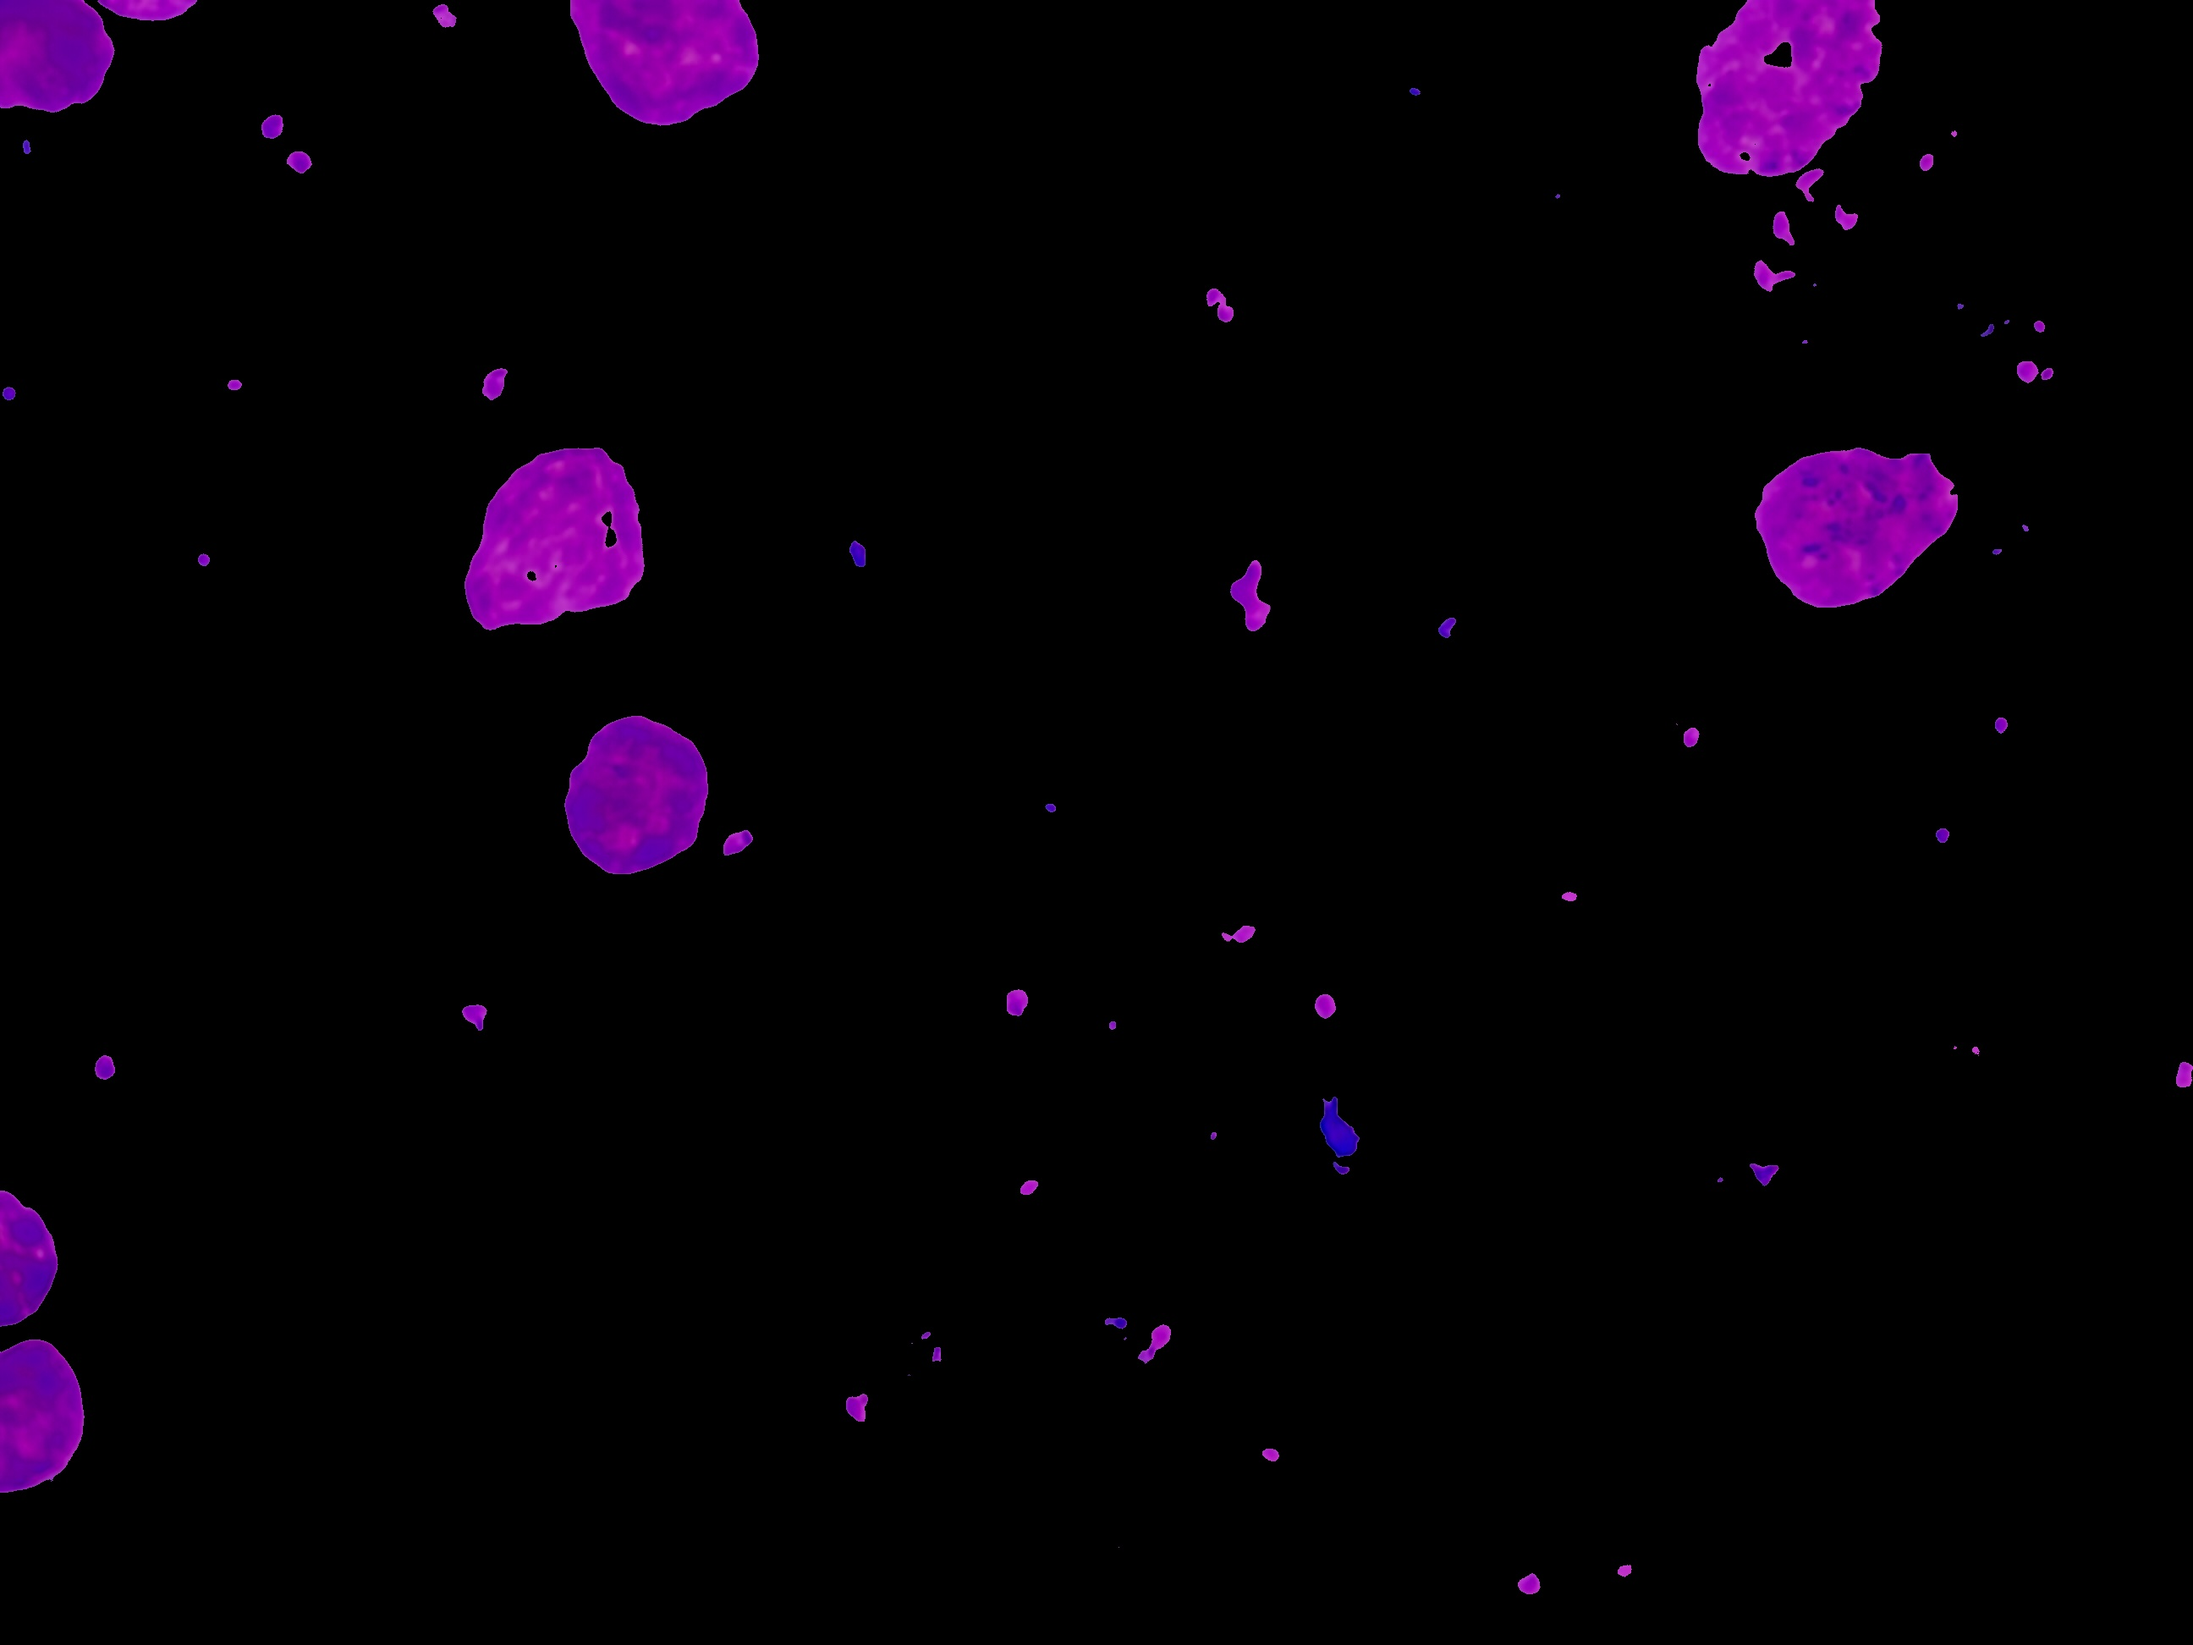
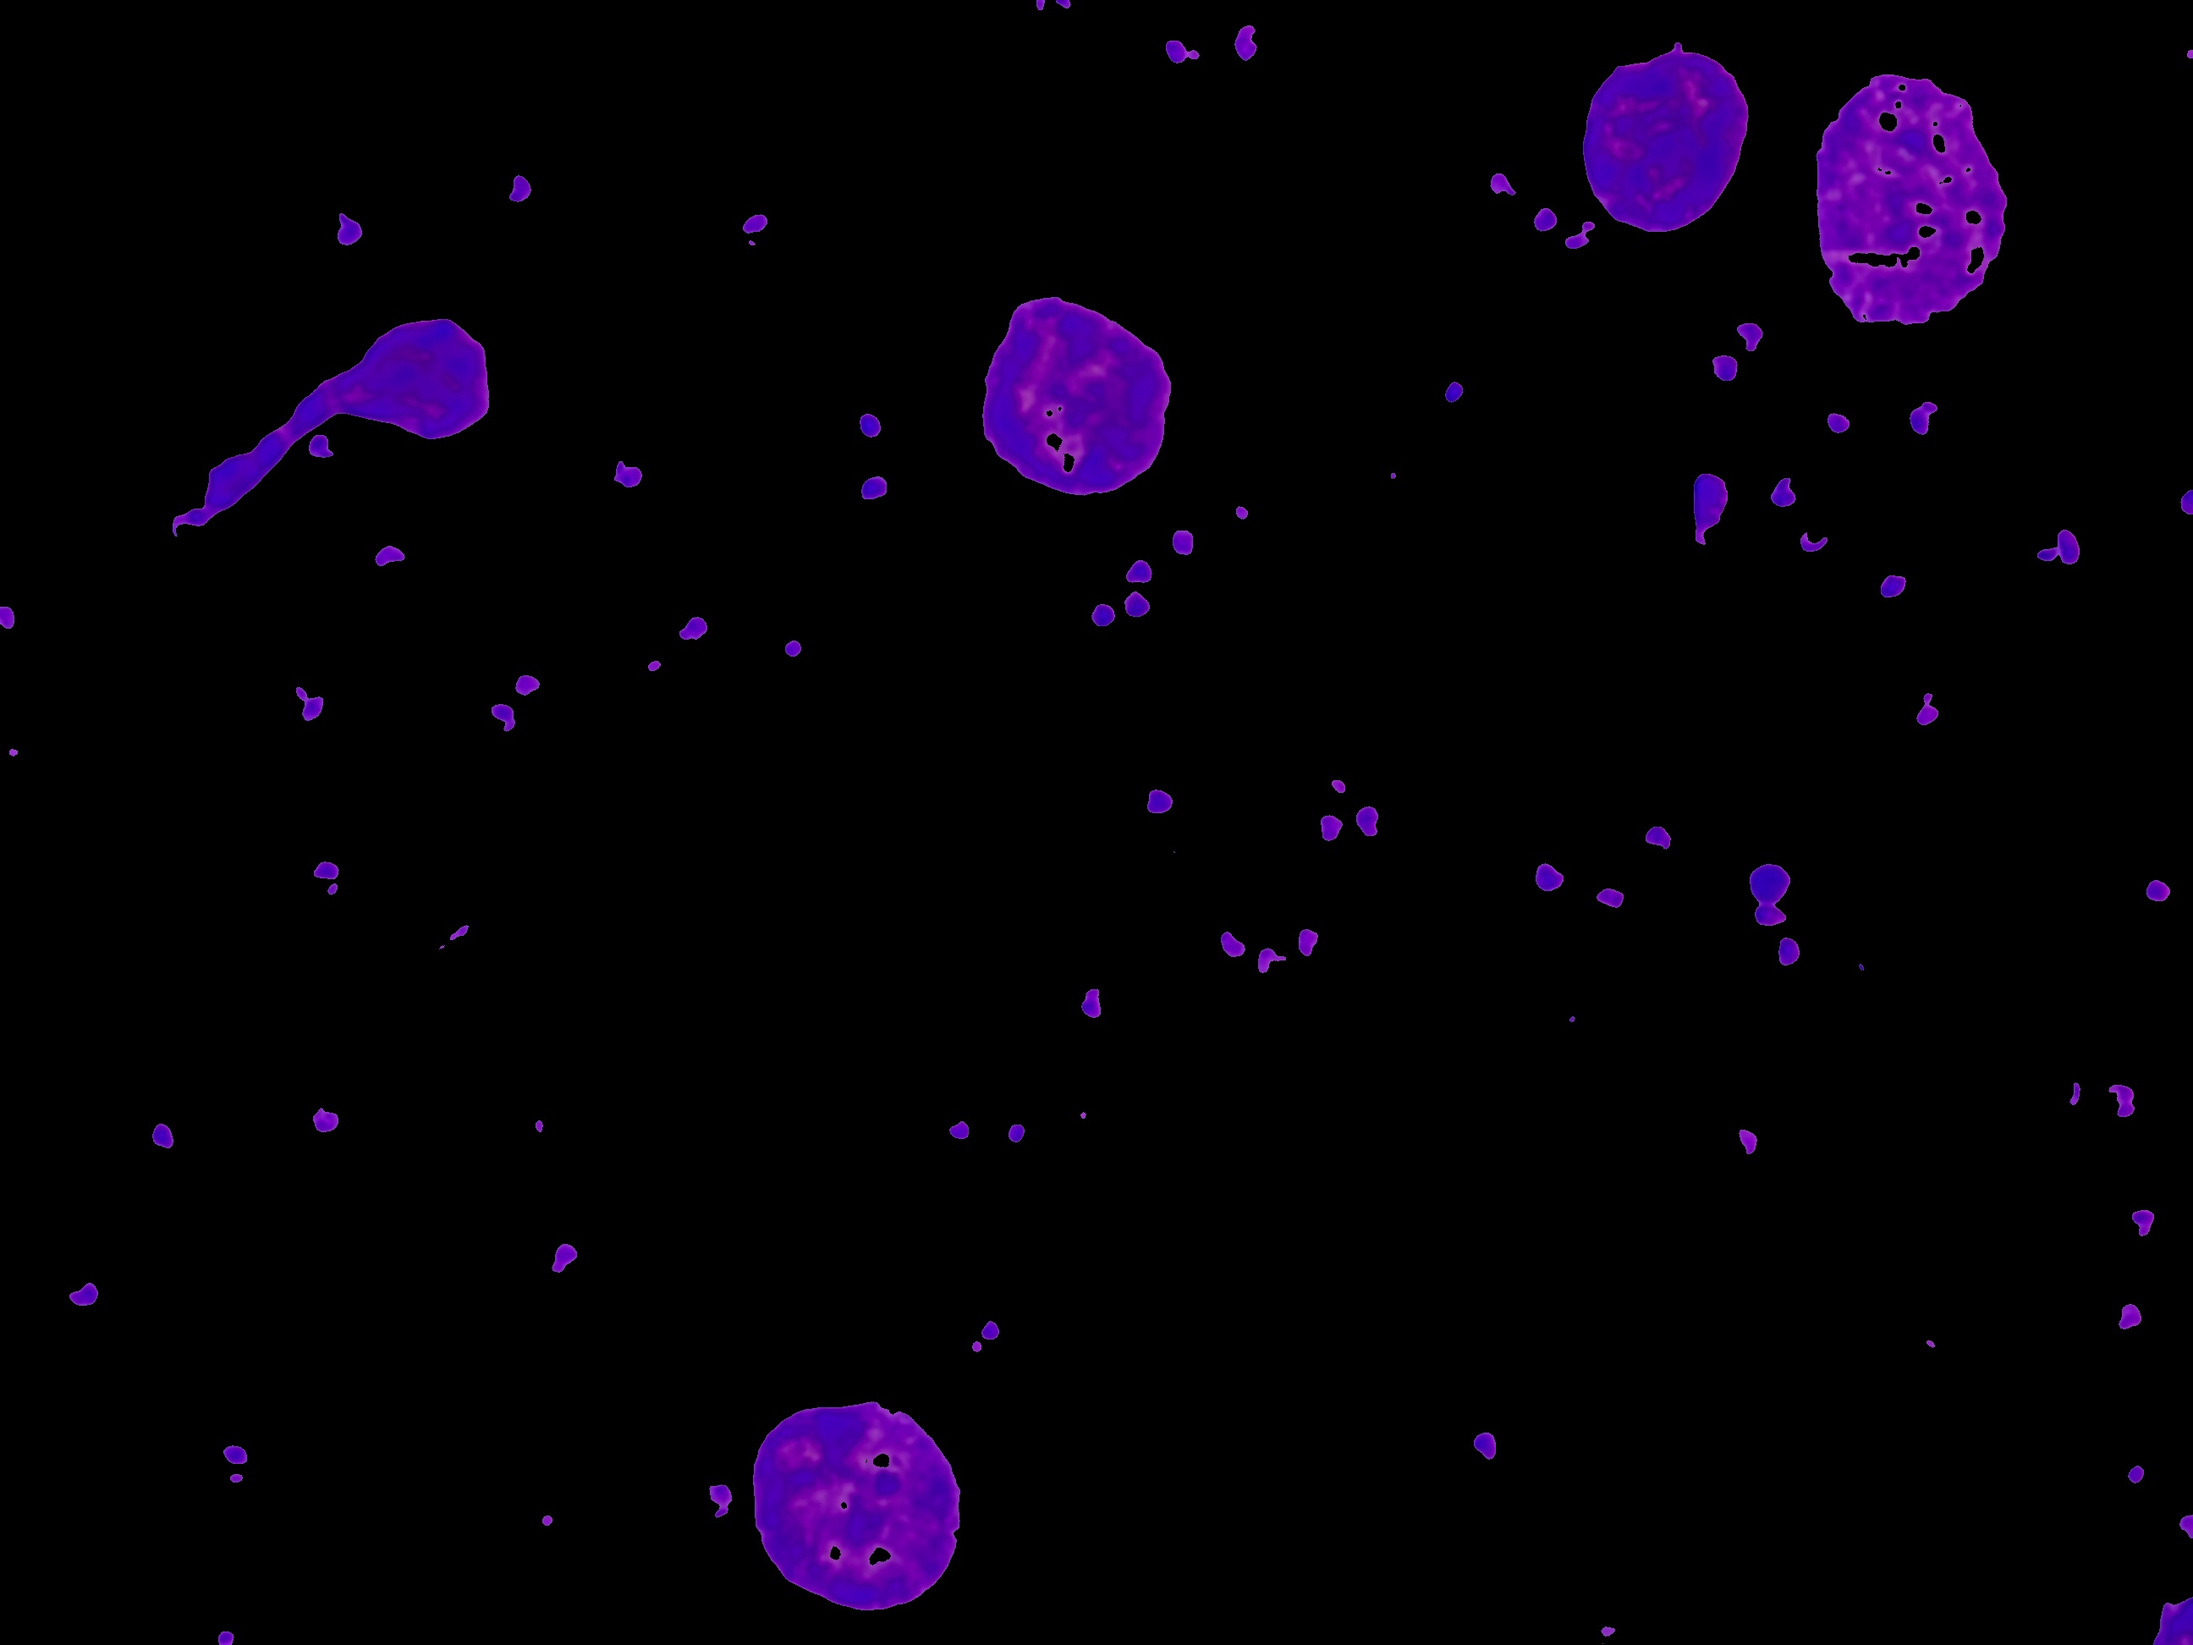
False Macrophages Identification were fixed

diff --git a/MacrophagesIdentification.py b/MacrophagesIdentification.py
@@ -19,14 +19,42 @@ def coreIdentification(img):
         area = cv2.contourArea(cnt)
         if area < minArea:
             cv2.drawContours(mask,contours,i,color=(0,0,0),thickness=cv2.FILLED)
+
+    #Checking if the contoures detected are actual cores
+    mask2 = np.zeros((1944,2592 , 1), dtype = np.uint8)
+    #just for testing the funtion and its parameters
+    testImage = cv2.imread('MacropMask.jpg',0)
+    cores = cv2.HoughCircles(mask, cv2.HOUGH_GRADIENT, 1, 160, param1=50, param2=5, minRadius=110, maxRadius=120)
+    circlesTest = img.copy()
+    cores = np.uint16(np.around(cores))
+    for (x,y,r ) in cores[0,:]:
+        cv2.circle(circlesTest, (x,y), r,(0,0,255),3)
+        cv2.circle(circlesTest, (x,y), 2,(0,0,255),3)
+
+    cv2.imwrite('CircleTest.jpg',circlesTest)
+    #Getting rid of the not rounded contours
+    contours, hierarchy1 = cv2.findContours(mask, cv2.RETR_EXTERNAL, cv2.CHAIN_APPROX_NONE)
+    for (x,y,r ) in cores[0,:]:
+        for i in range(len(contours)):
+            cnt = contours[i]
+            if 1 ==  cv2.pointPolygonTest(cnt,(x,y),False):
+                cv2.drawContours(mask2,contours,i,color=(255,255,255),thickness=cv2.FILLED)
+    
+    #Update found cores
+    cores = cv2.HoughCircles(mask2, cv2.HOUGH_GRADIENT, 1, 160, param1=50, param2=5, minRadius=110, maxRadius=120)
+    circlesTest = img.copy()
+    cores = np.uint16(np.around(cores))
+
+    #Writing the image files
+    cv2.imwrite('MaskTest.jpg',mask2)
     cv2.imwrite('CoreMask.jpg',mask)
     cv2.imwrite('CoreColored.jpg',imgColor)
 
-    return mask, imgColor
+    return mask2, imgColor, cores
 
 #Cytoplasm Identification
 
-def cytoplasmIdentification (img, coreMask, coreImgColor):
+def cytoplasmIdentification (img, coreMask, coreImgColor, cores):
     myColorFinder = ColorFinder(False)
     # Custom Color
     #hsv(264, 23%, 88%)
@@ -59,9 +87,21 @@ def cytoplasmIdentification (img, coreMask, coreImgColor):
         area = cv2.contourArea(cnt)
         if area < minArea:
             cv2.drawContours(diff2,contours,i,color=(0,0,0),thickness=cv2.FILLED)
-    cv2.imwrite('MacropMask.jpg',diff2)
 
-    return diff2
+    #Blank mask
+    mask2 = np.zeros((1944,2592 , 1), dtype = np.uint8)
+    #Checking if the cytoplasm detected are atatch to a sutable core
+    contours, hierarchy = cv2.findContours(diff2, cv2.RETR_EXTERNAL, cv2.CHAIN_APPROX_NONE)
+    #Getting rid of not false macrophages identified
+    for (x,y,r ) in cores[0,:]:
+        for i in range(len(contours)):
+            cnt = contours[i]
+            if 1 ==  cv2.pointPolygonTest(cnt,(x,y),False):
+                cv2.drawContours(mask2,contours,i,color=(255,255,255),thickness=cv2.FILLED)
+
+    cv2.imwrite('MacropMask.jpg',mask2)
+
+    return mask2
 
 #Processing Images Method 1
 def processImage(imgPre, img):
@@ -132,18 +172,18 @@ def SorensenDiceCoeff (labeled, mask):
     return coeff
 
 #Reading the Image from the local storage
-img = cv2.imread('L3_M2_C12.png',1)
+img = cv2.imread('L24_M1_C1.png',1)
 
 #Preprocess Image - Core Identification (Part 1)
-coreMask, coreImgColor = coreIdentification(img)
+coreMask, coreImgColor , cores = coreIdentification(img)
 
 #Preprocess Image - Cytoplasm Identification (Part2)
-mask = cytoplasmIdentification(img, coreMask, coreImgColor)
+mask = cytoplasmIdentification(img, coreMask, coreImgColor, cores)
 
 #Process Image
 processImage(mask,img)
 
 #Metrics to measure masks
 #meanSquereError(labeled=mask,mask=CoreMask)
-#jaccardIndex(labeled=mask,mask=CoreMask)
+#jaccardIndex(labeled=mask,mask=CoreMask)111
 #SorensenDiceCoeff(labeled=mask,mask=CoreMask)
